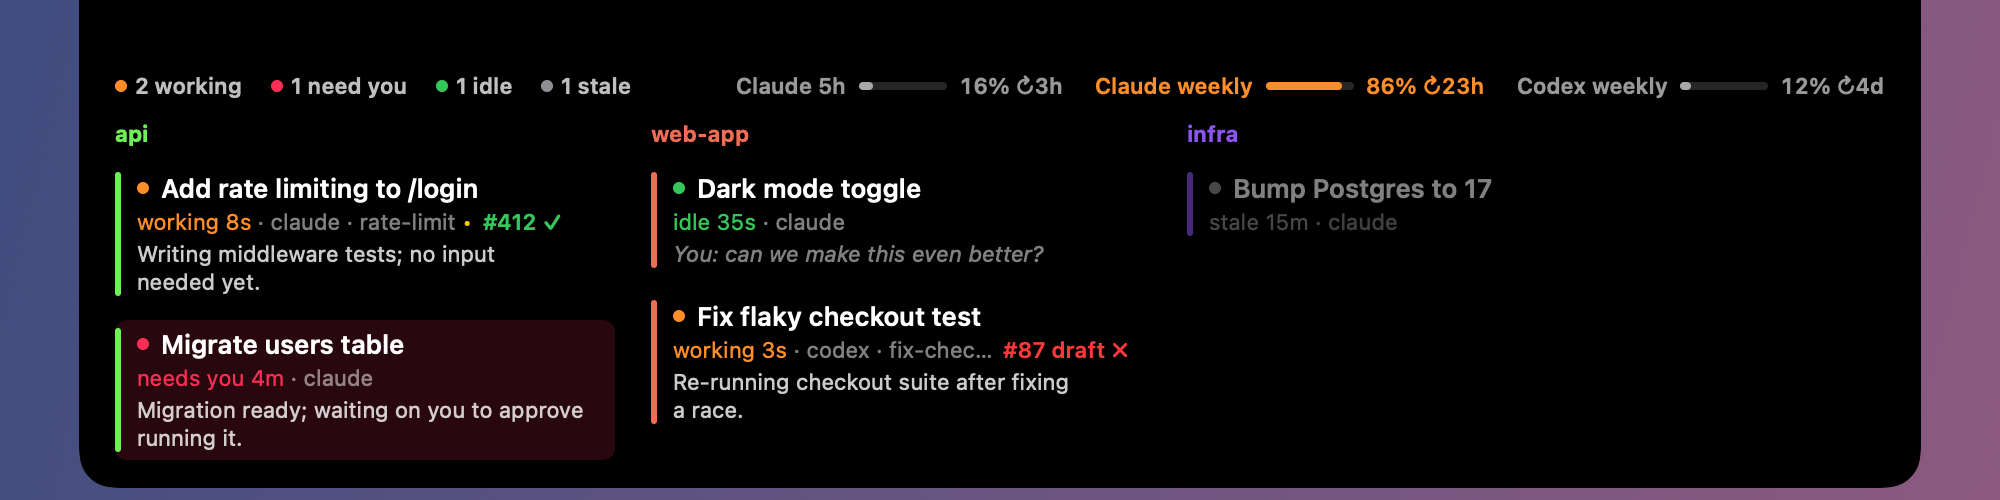
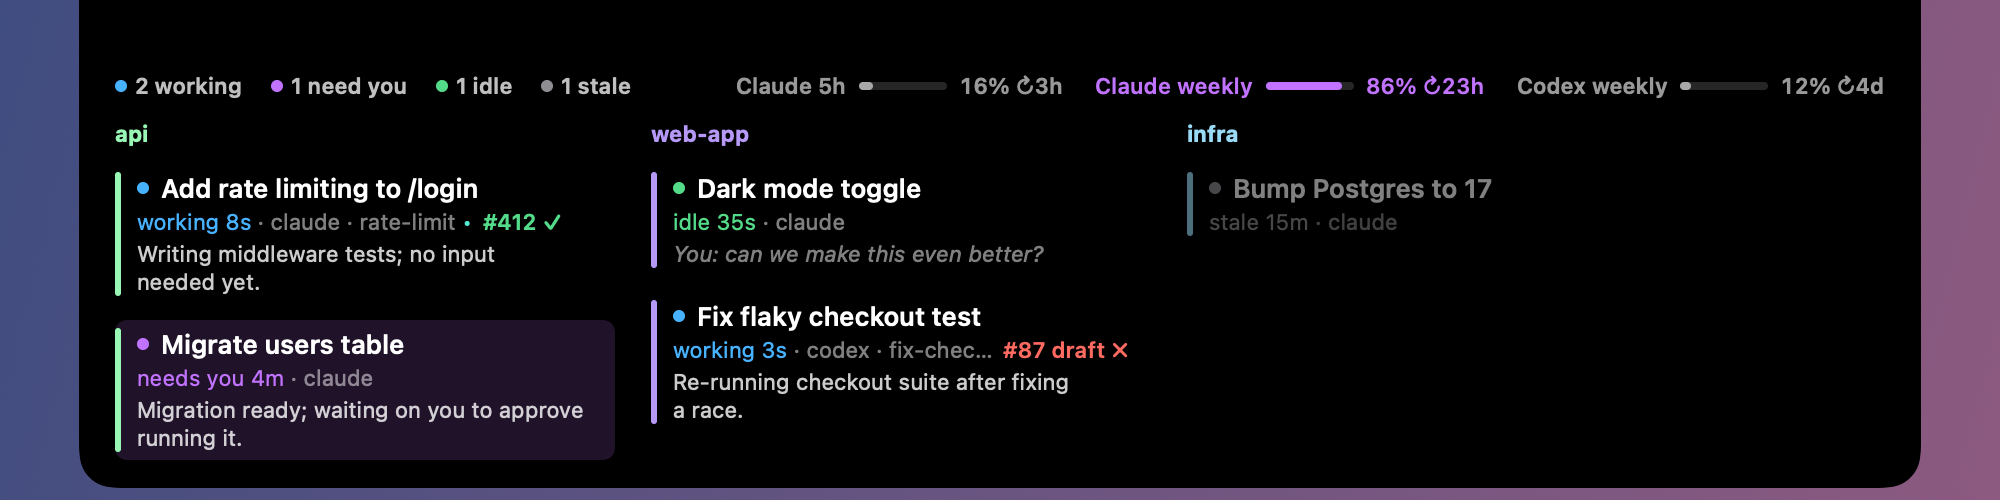
Cool color palette, hover feedback, and click-to-open in any app
- states use one blue, green and violet family, with coral kept for failures; repo colors are spread evenly from green to violet, so neighbours never look alike
- rows, PR labels and the toast highlight under the mouse
- ccs reports the app a session runs in (first ancestor inside an .app bundle); a click opens the exact tab in Ghostty and Terminal, the right window in VS Code and its forks, and the app otherwise

diff --git a/notch/Notch.swift b/notch/Notch.swift
@@ -10,25 +10,92 @@ struct Session: Decodable, Identifiable {
     var needs, stale, dirty: Bool?
     var branch, waiting_for: String?
     var pr: PR?
+    var app: String? // bundle of the terminal or editor the session runs in
 }
 
 struct PR: Decodable { let number: Int; let state: String?; let url: String?; let ci: String?; var draft: Bool? }
 
 let binDir = URL(fileURLWithPath: CommandLine.arguments[0]).deletingLastPathComponent()
 
-/// Stable color per repo name (String.hashValue is randomized per launch).
+/// Repos on screen, sorted by name; set by the Store on every update.
+nonisolated(unsafe) var repoNames: [String] = []
+
+/// One color per repo, spread evenly from green through blue to violet so neighbours never look alike.
+/// Pastel on purpose: the saturated versions of these hues are reserved for the session states.
 func repoColor(_ repo: String) -> Color {
-    let h = repo.utf8.reduce(UInt32(5381)) { ($0 &* 33) &+ UInt32($1) }
-    return Color(hue: Double(h % 360) / 360, saturation: 0.65, brightness: 0.95)
+    let i = Double(repoNames.firstIndex(of: repo) ?? 0)
+    return Color(hue: 0.30 + 0.50 * (i + 0.5) / Double(max(repoNames.count, 1)), saturation: 0.38, brightness: 0.97)
 }
 
+/// One cool family for the states, plus a single warm color kept for things that are broken.
+extension Color {
+    static let working = Color(hue: 0.57, saturation: 0.72, brightness: 1.00)  // sky blue
+    static let idle = Color(hue: 0.40, saturation: 0.62, brightness: 0.86)     // green
+    static let needsYou = Color(hue: 0.76, saturation: 0.55, brightness: 1.00) // violet
+    static let failing = Color(hue: 0.01, saturation: 0.62, brightness: 1.00)  // coral
+    static let caution = Color(hue: 0.48, saturation: 0.65, brightness: 0.92)  // teal: pending checks, uncommitted changes
+    static let merged = Color(hue: 0.48, saturation: 0.65, brightness: 0.92)
+}
+
+/// Marks something as clickable: open-hand cursor and a faint highlight under the mouse.
+struct Clickable: ViewModifier {
+    @State private var hover = false
+    func body(content: Content) -> some View {
+        let lit = content
+            .background(RoundedRectangle(cornerRadius: 6).fill(.white.opacity(hover ? 0.09 : 0)))
+            .onHover { inside in
+                hover = inside
+                // set, not push/pop: a row can vanish while hovered, which would leave a pushed cursor stuck.
+                // macOS only honors this while the overlay is the active app; the highlight always shows.
+                (inside ? NSCursor.openHand : NSCursor.arrow).set()
+            }
+        if #available(macOS 15, *) { lit.pointerStyle(.grabIdle) } else { lit }
+    }
+}
+
+/// VS Code and its forks, by app name -> folder under ~/Library/Application Support.
+let editors = ["Visual Studio Code": "Code", "Visual Studio Code - Insiders": "Code - Insiders",
+               "Cursor": "Cursor", "Windsurf": "Windsurf", "VSCodium": "VSCodium"]
+
+/// The folder of the open editor window that contains `cwd`, read from the editor's own window list.
+func editorWindow(support: String, containing cwd: String) -> String? {
+    let path = NSHomeDirectory() + "/Library/Application Support/\(support)/User/globalStorage/storage.json"
+    guard let data = FileManager.default.contents(atPath: path),
+          let json = try? JSONSerialization.jsonObject(with: data) as? [String: Any],
+          let state = json["windowsState"] as? [String: Any] else { return nil }
+    var windows = state["openedWindows"] as? [[String: Any]] ?? []
+    if let last = state["lastActiveWindow"] as? [String: Any] { windows.append(last) }
+    return windows.compactMap { ($0["folder"] as? String).flatMap { URL(string: $0)?.path } }
+        .filter { cwd == $0 || cwd.hasPrefix($0 + "/") }
+        .max { $0.count < $1.count }
+}
+
+/// Brings the session forward in whatever app runs it.
 func focus(_ s: Session) {
-    // without Ghostty, `tell application "Ghostty"` would pop a "Where is Ghostty?" picker, so do nothing
-    guard NSWorkspace.shared.urlForApplication(withBundleIdentifier: "com.mitchellh.ghostty") != nil else { return }
-    let p = Process()
-    p.executableURL = URL(fileURLWithPath: "/usr/bin/osascript")
-    p.arguments = [binDir.appendingPathComponent("focus.applescript").path, s.tty ?? "", s.cwd]
-    try? p.run()
+    func script(_ file: String) { // these find the exact tab by tty (or working directory)
+        let p = Process()
+        p.executableURL = URL(fileURLWithPath: "/usr/bin/osascript")
+        p.arguments = [binDir.appendingPathComponent(file).path, s.tty ?? "", s.cwd]
+        try? p.run()
+    }
+    guard let app = s.app.map({ URL(fileURLWithPath: $0) }) else {
+        // no app found (tmux, Codex): Ghostty by tty or cwd, as before. Without Ghostty,
+        // `tell application "Ghostty"` would pop a "Where is Ghostty?" picker, so do nothing.
+        if NSWorkspace.shared.urlForApplication(withBundleIdentifier: "com.mitchellh.ghostty") != nil { script("focus.applescript") }
+        return
+    }
+    let name = app.deletingPathExtension().lastPathComponent
+    if name == "Ghostty" {
+        script("focus.applescript")
+    } else if name == "Terminal" {
+        script("focus-terminal.applescript")
+    } else if let support = editors[name], let folder = editorWindow(support: support, containing: s.cwd) {
+        // An editor has no handle on a terminal tab from outside, but opening a folder that is already
+        // open brings that window forward. Only folders it lists as open are used, so no new window appears.
+        NSWorkspace.shared.open([URL(fileURLWithPath: folder)], withApplicationAt: app, configuration: NSWorkspace.OpenConfiguration())
+    } else {
+        NSWorkspace.shared.openApplication(at: app, configuration: NSWorkspace.OpenConfiguration())
+    }
 }
 
 final class Store: ObservableObject {
@@ -46,7 +113,7 @@ final class Store: ObservableObject {
     let ccs: String = ProcessInfo.processInfo.environment["CCS_BIN"]
         ?? binDir.appendingPathComponent("ccs").path
 
-    init(sample: [Session], finished: Session? = nil) { sessions = sample; self.finished = finished }
+    init(sample: [Session], finished: Session? = nil) { sessions = sample; self.finished = finished; repoNames = Set(sample.map(\.repo)).sorted() }
 
     init() {
         refresh()
@@ -115,6 +182,7 @@ final class Store: ObservableObject {
         let wasNeeding = Set(sessions.filter { $0.needs == true }.map(\.id))
         let first = !loaded
         (sessions, loaded) = (new, true)
+        repoNames = Set(new.map(\.repo)).sorted()
         guard !first else { return } // no chimes for what was already there at launch
         // "needs you" (Glass) wins over "finished" (Tink)
         let asking = new.first { $0.needs == true && !wasNeeding.contains($0.id) }
@@ -167,9 +235,9 @@ struct NotchView: View {
                 Spacer().frame(height: notch.height - 6)
                 // header: counts by state (doubles as the color legend) on the left, usage on the right
                 HStack(spacing: 14) {
-                    count("working", .orange) { $0.status == "busy" }
-                    count("need you", .pink) { $0.needs == true }
-                    count("idle", .green) { $0.status != "busy" && $0.needs != true && $0.stale != true }
+                    count("working", .working) { $0.status == "busy" }
+                    count("need you", .needsYou) { $0.needs == true }
+                    count("idle", .idle) { $0.status != "busy" && $0.needs != true && $0.stale != true }
                     count("stale", .gray) { $0.stale == true }
                     Spacer(minLength: 24)
                     if !store.limits.isEmpty { limitsRow }
@@ -196,16 +264,17 @@ struct NotchView: View {
                 Spacer().frame(height: notch.height)
                 HStack(spacing: 6) {
                     Image(systemName: f.needs == true ? "bell.fill" : "checkmark.circle.fill")
-                        .foregroundStyle(f.needs == true ? .pink : repoColor(f.repo))
+                        .foregroundStyle(f.needs == true ? .needsYou : repoColor(f.repo))
                     Text("\(f.repo): \(f.title)\(f.needs == true ? " needs you" : "")").font(.system(size: 12, weight: .medium)).lineLimit(1)
                 }
                 .padding(.horizontal, 14).padding(.bottom, 8)
+                .modifier(Clickable())
                 .onTapGesture { focus(f) }
             } else {
                 // collapsed: one dot per busy session, sitting under the notch
                 HStack(spacing: 3) {
                     ForEach(store.sessions.filter { $0.status == "busy" || $0.needs == true }) { s in
-                        Circle().fill(s.needs == true ? .pink : repoColor(s.repo)).frame(width: 4, height: 4)
+                        Circle().fill(s.needs == true ? .needsYou : repoColor(s.repo)).frame(width: 4, height: 4)
                     }
                 }.frame(maxWidth: .infinity, maxHeight: .infinity, alignment: .bottom).padding(.bottom, 3)
                 .overlay {
@@ -214,11 +283,11 @@ struct NotchView: View {
                     let needing = store.sessions.filter { $0.needs == true }.count
                     if !beside {
                     } else if needing > 0 {
-                        Text("\(needing)").font(.system(size: 12, weight: .bold)).foregroundStyle(.pink)
+                        Text("\(needing)").font(.system(size: 12, weight: .bold)).foregroundStyle(Color.needsYou)
                     } else {
                         let peak = store.limits.flatMap(\.windows).map(\.used).max() ?? 0
                         Image(systemName: "terminal").font(.system(size: 11))
-                            .foregroundStyle(peak >= 95 ? Color.red : peak >= 80 ? .orange : .white.opacity(0.6))
+                            .foregroundStyle(peak >= 95 ? Color.failing : peak >= 80 ? .needsYou : .white.opacity(0.6))
                     }
                 }
             }
@@ -241,7 +310,7 @@ struct NotchView: View {
     var limitsRow: some View {
         HStack(spacing: 16) {
             ForEach(store.limits.flatMap { t in t.windows.map { ("\(t.tool) \($0.label)", $0) } }, id: \.0) { label, w in
-                let c = w.used >= 95 ? Color.red : w.used >= 80 ? .orange : .white.opacity(0.6)
+                let c = w.used >= 95 ? Color.failing : w.used >= 80 ? .needsYou : .white.opacity(0.6)
                 HStack(spacing: 6) {
                     Text(label)
                     ZStack(alignment: .leading) {
@@ -288,16 +357,17 @@ struct NotchView: View {
 
     /// "#412 ✓" / "#13 draft ✗": PR number with its CI result; click opens the PR.
     func prLabel(_ pr: PR) -> some View {
-        let (mark, color): (String, Color) = pr.state == "MERGED" ? (" merged", .purple) : pr.state == "CLOSED" ? (" closed", .gray)
-            : pr.ci == "fail" ? (" ✗", .red) : pr.ci == "pending" ? (" …", .yellow) : pr.ci == "pass" ? (" ✓", .green) : ("", .white.opacity(0.6))
+        let (mark, color): (String, Color) = pr.state == "MERGED" ? (" merged", .merged) : pr.state == "CLOSED" ? (" closed", .gray)
+            : pr.ci == "fail" ? (" ✗", .failing) : pr.ci == "pending" ? (" …", .caution) : pr.ci == "pass" ? (" ✓", .idle) : ("", .white.opacity(0.6))
         let draft = pr.draft == true && pr.state == "OPEN" ? " draft" : ""
         return Text("#\(String(pr.number))\(draft)\(mark)").font(.system(size: 11, weight: .semibold)).foregroundStyle(color).fixedSize()
+            .modifier(Clickable())
             .onTapGesture { if let u = pr.url.flatMap({ URL(string: $0) }) { NSWorkspace.shared.open(u) } }
     }
 
     func row(_ s: Session) -> some View {
-        let (word, color): (String, Color) = s.needs == true ? ("needs you", .pink) : s.status == "busy" ? ("working", .orange)
-            : s.stale == true ? ("stale", .gray) : ("idle", .green)
+        let (word, color): (String, Color) = s.needs == true ? ("needs you", .needsYou) : s.status == "busy" ? ("working", .working)
+            : s.stale == true ? ("stale", .gray) : ("idle", .idle)
         // the folder is only worth showing when it differs from the repo header (git worktrees)
         let place = (s.project == s.repo ? "" : " · \(s.project)") + (s.branch.map { " · \($0)" } ?? "")
         return HStack(alignment: .top, spacing: 8) {
@@ -309,7 +379,7 @@ struct NotchView: View {
                 }
                 // status in its color, then tool and branch; yellow dot = uncommitted changes
                 HStack(spacing: 5) {
-                    Text("\(Text("\(word) \(ago(s.idle_secs))").foregroundColor(color)) · \(s.tool)\(place)\(Text(s.dirty == true ? " •" : "").foregroundColor(.yellow))")
+                    Text("\(Text("\(word) \(ago(s.idle_secs))").foregroundColor(color)) · \(s.tool)\(place)\(Text(s.dirty == true ? " •" : "").foregroundColor(.caution))")
                         .font(.system(size: 11)).foregroundStyle(.secondary).lineLimit(1)
                     if let pr = s.pr { prLabel(pr) }
                 }
@@ -325,9 +395,10 @@ struct NotchView: View {
         .fixedSize(horizontal: false, vertical: true)
         .padding(.vertical, 4).padding(.trailing, 6)
         .frame(maxWidth: .infinity, alignment: .leading)
-        .background(RoundedRectangle(cornerRadius: 6).fill(Color.pink.opacity(s.needs == true ? 0.16 : 0)))
+        .background(RoundedRectangle(cornerRadius: 6).fill(Color.needsYou.opacity(s.needs == true ? 0.16 : 0)))
         .opacity(s.stale == true ? 0.5 : 1)
         .contentShape(Rectangle())
+        .modifier(Clickable())
         .onTapGesture { focus(s) }
     }
 }

diff --git a/src/main.rs b/src/main.rs
@@ -20,6 +20,7 @@ struct Session {
     cwd: String,
     repo: String,
     tty: Option<String>,
+    app: Option<String>, // bundle of the terminal or editor the session runs in
     status: String,
     idle_secs: u64,
     last_prompt: String,
@@ -37,8 +38,8 @@ const STALE_SECS: u64 = 86400;
 const GIT_TTL: u64 = 30; // seconds between `git status` runs per folder
 const PR_TTL: u64 = 300; // seconds between GitHub lookups per folder
 
-/// Live pid -> its tty.
-type Procs = HashMap<u64, Option<String>>;
+/// Live pid -> (tty, parent pid, command).
+type Procs = HashMap<u64, (Option<String>, u64, String)>;
 
 fn main() {
     let args: Vec<String> = env::args().collect();
@@ -82,17 +83,39 @@ fn now() -> u64 {
     SystemTime::now().duration_since(UNIX_EPOCH).unwrap().as_secs()
 }
 
-/// One `ps` call for everything: live pids with their tty, and whether Codex runs at all.
+/// One `ps` call for everything: live pids with their tty, parent and command, and whether Codex runs at all.
 fn processes() -> (Procs, bool) {
-    let out = Command::new("ps").args(["-axo", "pid=,tty=,comm="]).output().map(|o| o.stdout).unwrap_or_default();
+    let out = Command::new("ps").args(["-axo", "pid=,ppid=,tty=,comm="]).output().map(|o| o.stdout).unwrap_or_default();
     let (mut procs, mut codex) = (Procs::new(), false);
     for line in String::from_utf8_lossy(&out).lines() {
-        let mut f = line.split_whitespace();
-        let (Some(pid), Some(tty)) = (f.next().and_then(|p| p.parse().ok()), f.next()) else { continue };
-        procs.insert(pid, (tty != "??").then(|| format!("/dev/{tty}")));
-        codex |= f.next().is_some_and(|c| project(c).starts_with("codex"));
+        // three padded columns, then the command, which may contain spaces
+        let mut rest = line;
+        let mut next = || {
+            let t = rest.trim_start();
+            let (field, tail) = t.split_at(t.find(char::is_whitespace).unwrap_or(t.len()));
+            rest = tail;
+            field
+        };
+        let (Ok(pid), Ok(ppid), tty) = (next().parse::<u64>(), next().parse::<u64>(), next()) else { continue };
+        let comm = rest.trim();
+        codex |= project(comm).starts_with("codex");
+        procs.insert(pid, ((tty != "??").then(|| format!("/dev/{tty}")), ppid, comm.to_string()));
     }
     (procs, codex)
+}
+
+/// The app a process runs inside: the first ancestor that lives in an .app bundle, e.g.
+/// "/Applications/Ghostty.app". None for tmux and the like, whose server is detached from any app.
+fn app_of(mut pid: u64, procs: &Procs) -> Option<String> {
+    for _ in 0..16 {
+        let (_, ppid, comm) = procs.get(&pid)?;
+        // Claude Code ships its own launcher as an .app; that is not where the session is shown
+        if let Some(app) = comm.find(".app/").map(|i| &comm[..i + 4]).filter(|a| !a.contains("/claude/")) {
+            return Some(app.to_string());
+        }
+        pid = *ppid;
+    }
+    None
 }
 
 /// Reads what changed in a transcript into its cache entry (title, last_prompt, asks).
@@ -257,7 +280,8 @@ fn claude_sessions(home: &Path, procs: &Procs, cache: &mut Value) -> Vec<Session
             title,
             cwd,
             repo: String::new(),
-            tty: procs[&pid].clone(),
+            tty: procs[&pid].0.clone(),
+            app: app_of(pid, procs),
             status: meta["status"].as_str().unwrap_or("?").to_string(),
             idle_secs: now().saturating_sub(updated_ms / 1000),
             last_prompt,
@@ -388,7 +412,10 @@ fn codex_sessions(home: &Path, open: &[(PathBuf, u64)], procs: &Procs) -> Vec<Se
     for path in paths {
         // the holder with a terminal is the CLI (the desktop app's server has none); its tty lets
         // click-to-jump find the exact Ghostty tab, wherever the session's folder is
-        let tty = open.iter().filter(|(p, _)| p == path).find_map(|(_, pid)| procs.get(pid).cloned().flatten());
+        // the holder with a terminal is the CLI; it also tells us which app the session is shown in
+        let holder = open.iter().filter(|(p, _)| p == path).find_map(|(_, pid)| Some((*pid, procs.get(pid)?.0.clone()?)));
+        let app = holder.as_ref().and_then(|(pid, _)| app_of(*pid, procs));
+        let tty = holder.map(|(_, tty)| tty);
         let mtime = fs::metadata(path).and_then(|m| m.modified()).ok()
             .and_then(|t| t.duration_since(UNIX_EPOCH).ok()).map_or(0, |d| d.as_secs());
         let idle = now().saturating_sub(mtime);
@@ -427,6 +454,7 @@ fn codex_sessions(home: &Path, open: &[(PathBuf, u64)], procs: &Procs) -> Vec<Se
             cwd: turn_cwd.or_else(|| meta["cwd"].as_str().map(String::from)).unwrap_or_default(),
             repo: String::new(),
             tty,
+            app,
             status: if idle < 10 { "busy" } else { "idle" }.to_string(),
             idle_secs: idle,
             last_prompt,
@@ -446,7 +474,7 @@ fn codex_sessions(home: &Path, open: &[(PathBuf, u64)], procs: &Procs) -> Vec<Se
 fn to_json(sessions: &[Session]) -> Value {
     let arr: Vec<Value> = sessions.iter().map(|s| json!({
         "tool": s.tool, "id": s.id, "title": s.title, "cwd": s.cwd,
-        "project": project(&s.cwd), "repo": s.repo, "tty": s.tty, "status": s.status, "idle_secs": s.idle_secs,
+        "project": project(&s.cwd), "repo": s.repo, "tty": s.tty, "app": s.app, "status": s.status, "idle_secs": s.idle_secs,
         "last_prompt": s.last_prompt, "summary": s.summary,
         "waiting_for": s.waiting_for, "needs": s.needs, "stale": s.stale, "branch": s.branch, "dirty": s.dirty, "pr": s.pr,
     })).collect();
@@ -598,7 +626,8 @@ mod tests {
         let rollouts = home.join(".codex/sessions/2026/01/01");
         // rollout-closed is not open; rollout-1 is held by a desktop-app server (no tty) and the CLI (tty)
         let open = [(rollouts.join("rollout-1.jsonl"), 1), (rollouts.join("rollout-1.jsonl"), 2), (rollouts.join("rollout-exec.jsonl"), 1)];
-        let procs = Procs::from([(me as u64, None), (1, None), (2, Some("/dev/ttys042".to_string()))]);
+        let p = |tty: Option<&str>| (tty.map(String::from), 0, String::new());
+        let procs = Procs::from([(me as u64, p(None)), (1, p(None)), (2, p(Some("/dev/ttys042")))]);
         let s = collect(&home, &open, &procs);
         // second run parses only the appended line, and keeps what the cache already knew
         let t = home.join(".claude/projects/-x-proj/abc.jsonl");

diff --git a/README.md b/README.md
@@ -2,7 +2,7 @@
 
 See your active Claude Code and Codex sessions at a glance.
 
-Hover the MacBook notch to see every session, grouped by repo. Click one to jump to its Ghostty tab.
+Hover the MacBook notch to see every session, grouped by repo. Click one to bring it forward in the app it runs in.
 
 ![Sessions grouped by repo](docs/notch-open.png)
 
@@ -30,6 +30,8 @@ web-app
 
 Each session shows its state: working, idle, needs you (blocked on a permission prompt, or its last message asks you something) or stale (idle for over a day). You also get the git branch, a dot for uncommitted changes, and the branch's pull request with its CI result (click it to open the PR). A turn that ends plays Tink; a session that starts needing you plays Glass.
 
+Clicking a session opens it where it runs: the exact tab in Ghostty and Terminal, the right window in VS Code, Cursor, Windsurf and VSCodium (an editor's terminal tab cannot be picked from outside), and the app itself for anything else.
+
 The overlay does not poll. It refreshes when Claude Code rewrites a session file or a hook writes a summary, so a finished turn shows up at once and an idle machine does no work. It stops while the screen is locked or asleep. With more repos than fit on screen, the panel scrolls sideways.
 
 Pull request status needs the [GitHub CLI](https://cli.github.com) (`gh`), logged in. It is looked up in the background at most once every 5 minutes per folder, and skipped for `main`, `master` and stale sessions.
@@ -38,7 +40,7 @@ Pull request status needs the [GitHub CLI](https://cli.github.com) (`gh`), logge
 
 - macOS, Rust (`cargo`) and Xcode command line tools (`swiftc`) to build
 - `jq` for the summary hook
-- [Ghostty](https://ghostty.org) 1.4+ only for click-to-jump; without it everything else works and clicks do nothing
+- [Ghostty](https://ghostty.org) 1.4+ only for jumping to the exact tab of a Ghostty, tmux or Codex session; everything else works without it
 
 ## Build
 
